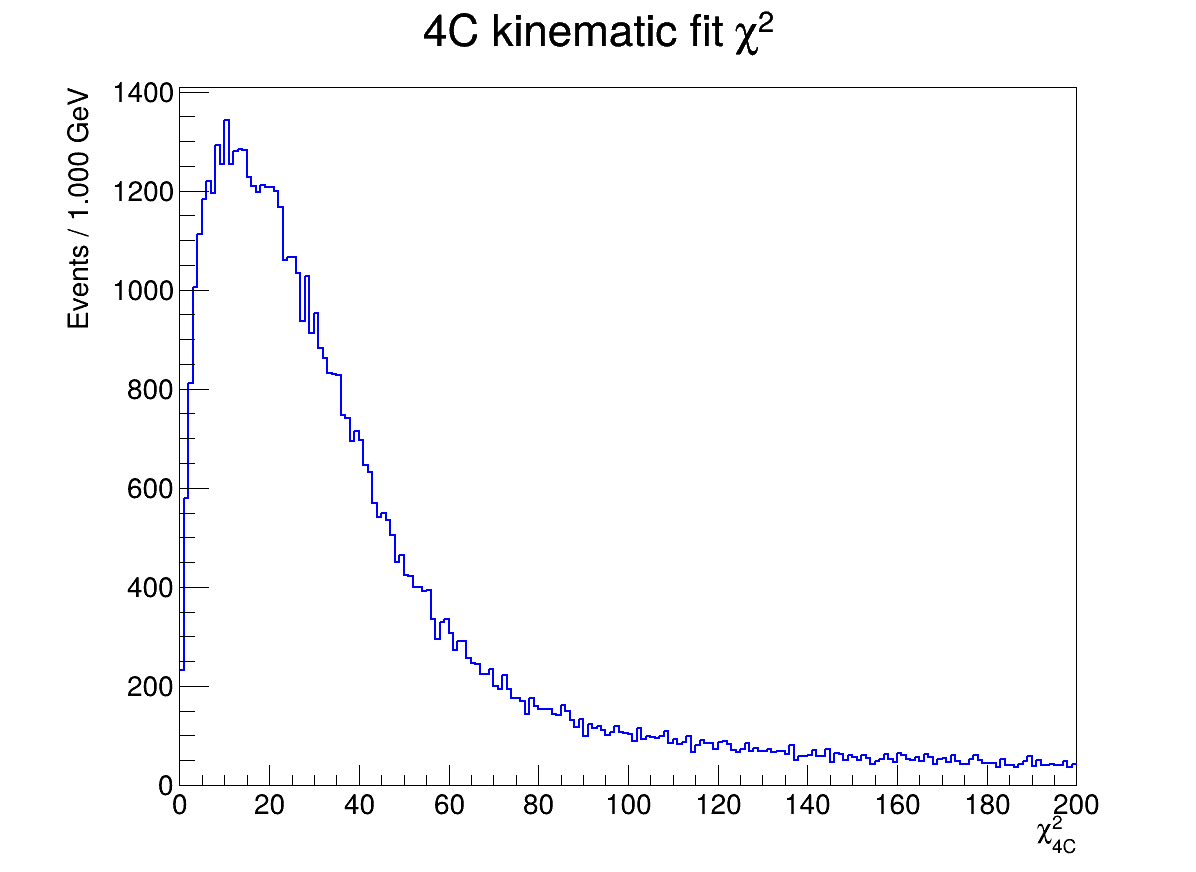
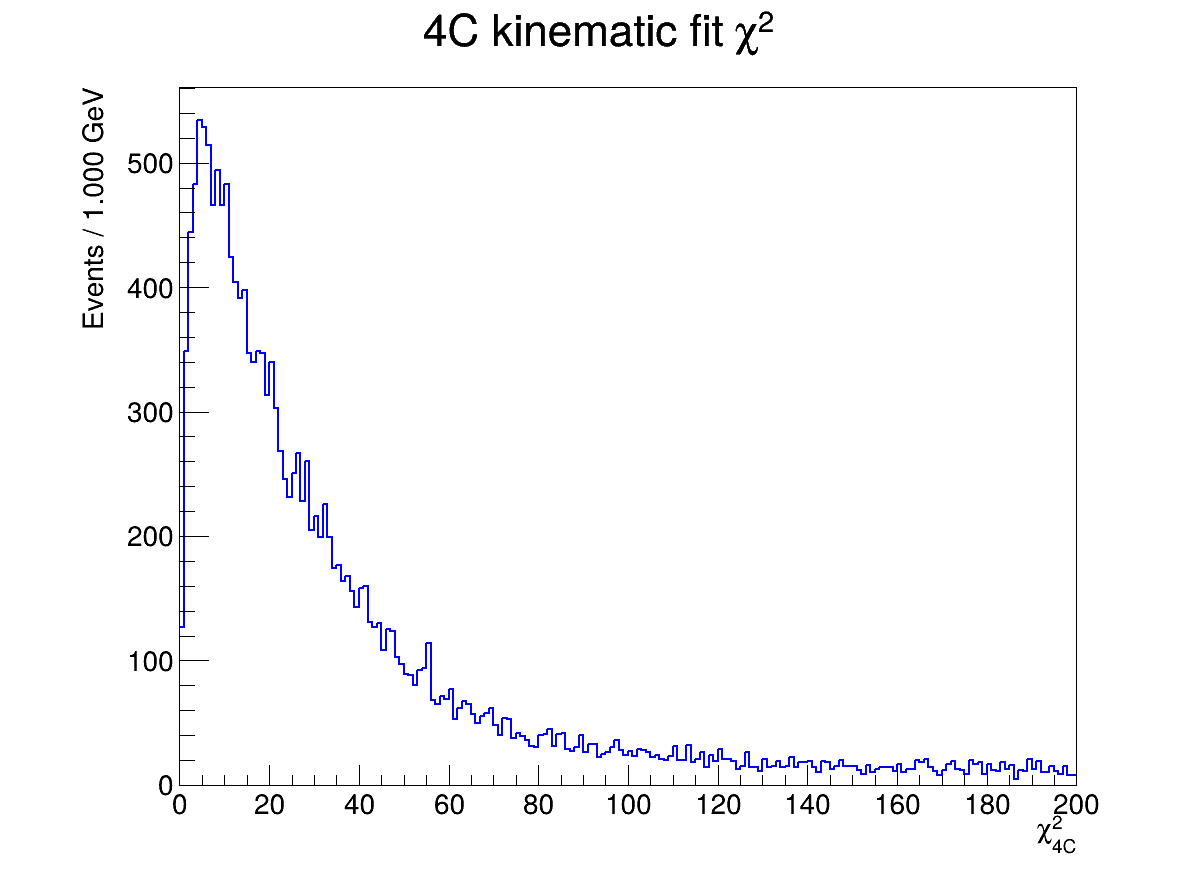
4.4 and 4.5 done

diff --git a/part2_KinFit/ZcAnalysis.C b/part2_KinFit/ZcAnalysis.C
@@ -61,6 +61,20 @@ TH1D* h1_mJpsi_mu = new TH1D(
     "J/#psi invariant mass (muon channel);M_{#mu^{+}#mu^{-}} [GeV];Events",
     100, 2.9, 3.2
 );
+
+// problem 4.4
+
+TH1D* h1_p_e = new TH1D(
+"h1_p_e",
+"Electron momentum;|p_{e}| [GeV];Events",
+200,0,3
+);
+
+TH1D* h1_p_mu = new TH1D(
+"h1_p_mu",
+"Muon momentum;|p_{#mu}| [GeV];Events",
+200,0,3
+);
 // problem 3.3
 TH1D* h1_mJpsi_recoil = new TH1D(
     "h1_mJpsi_recoil",
@@ -104,7 +118,11 @@ TH1D* h1_mJpsi_pipi_before = new TH1D(
     "Invariant mass of J/#psi #pi^{+}#pi^{-};M_{J/#psi#pi#pi} [GeV];Events",
     200, 3.0, 4.5
 );
-
+TH1D* h1_mJpsi_pipi_afterBhabha = new TH1D(
+    "h1_mJpsi_pipi_afterBhabha",
+    "Invariant mass after Bhabha cut;M_{J/#psi#pi#pi} [GeV];Events",
+    200,3.0,4.5
+);
 TH1D* h1_Emiss_before = new TH1D(
     "h1_Emiss_before",
     "Missing energy;E_{miss} [GeV];Events",
@@ -116,6 +134,37 @@ TH1D* h1_chi2_4C = new TH1D(
     "4C kinematic fit #chi^{2};#chi^{2}_{4C};Events",
     200,0,200
 );
+// problem 4.5
+TH1D* h_cos_ee = new TH1D(
+"cos_ee",
+"cos(#theta) between e^{+}e^{-};cos(#theta);Events",
+100,-1,1
+);
+
+TH1D* h_cos_epi_minus = new TH1D(
+"cos_epi_minus",
+"cos(#theta) between e^{+}#pi^{-};cos(#theta);Events",
+100,-1,1
+);
+
+TH1D* h_cos_pie_minus = new TH1D(
+"cos_pie_minus",
+"cos(#theta) between #pi^{+}e^{-};cos(#theta);Events",
+100,-1,1
+);
+
+TH1D* h_cos_pipi = new TH1D(
+"cos_pipi",
+"cos(#theta) between #pi^{+}#pi^{-};cos(#theta);Events",
+100,-1,1
+);
+// problem 4.5
+TH1D* h1_mJpsi_pipi_afterConversion = new TH1D(
+"h1_mJpsi_pipi_afterConversion",
+"Invariant mass after conversion cut;M_{J/#psi#pi#pi} [GeV];Events",
+200,3.0,4.5
+);
+
 //Problem 2.4
 double m_jpsi = 3.0969;  // Gev
 double m_pi = 0.13957;   // GeV
@@ -180,6 +229,17 @@ dblKinFit4CMomentaPz[3],
 dblKinFit4CMomentaE[3]
 );
 
+// problem 4.4
+double p_lp = lep_plus.P();
+double p_lm = lep_minus.P();
+
+// problem 4.5 photon conversion study (angular distributions)
+
+double cos_ee = CosTheta(lep_plus, lep_minus);
+double cos_epi_minus = CosTheta(lep_plus, pi_minus);
+double cos_pie_minus = CosTheta(pi_plus, lep_minus);
+double cos_pipi = CosTheta(pi_plus, pi_minus);
+
         //=============================================================================
         // Your selection for each event
         //=============================================================================
@@ -193,6 +253,41 @@ dblKinFit4CMomentaE[3]
 
 bool electronEvent = (intNumberElectrons == 2);
 bool muonEvent     = (intNumberMuons == 2);
+
+// problem 4.5
+// fill angular histograms
+h_cos_ee->Fill(cos_ee);
+h_cos_epi_minus->Fill(cos_epi_minus);
+h_cos_pie_minus->Fill(cos_pie_minus);
+h_cos_pipi->Fill(cos_pipi);
+
+// reconstruct J/psi and total system BEFORE Bhabha cut
+P4E Jpsi_temp  = lep_plus + lep_minus;
+P4E pions_temp = pi_plus + pi_minus;
+P4E total_temp = Jpsi_temp + pions_temp;
+
+// fill invariant mass BEFORE Bhabha cut
+h1_mJpsi_pipi_before->Fill(total_temp.M());
+// problem 4.4
+if (electronEvent)
+{
+    h1_p_e->Fill(p_lp);
+    h1_p_e->Fill(p_lm);
+}
+
+if (muonEvent)
+{
+    h1_p_mu->Fill(p_lp);
+    h1_p_mu->Fill(p_lm);
+}
+// ---------------- Bhabha background rejection ----------------
+if (electronEvent)
+{
+    if (p_lp > 2.0 || p_lm > 2.0)
+        continue;
+}
+// invariant mass after bhabha cut
+h1_mJpsi_pipi_afterBhabha->Fill(total_temp.M());
 // problem 3.3
 // reconstruct J/psi from pion recoil
 
@@ -217,6 +312,13 @@ P4E Jpsi = lep_plus + lep_minus;
 // problem 4.2
 P4E pions = pi_plus + pi_minus;
 P4E total = Jpsi + pions;
+// problem 4.5
+// ---- photon conversion rejection ----
+if (cos_epi_minus > 0.95 || cos_pie_minus > 0.95 || cos_pipi > 0.95)
+    continue;
+
+// fill invariant mass after conversion cut
+h1_mJpsi_pipi_afterConversion->Fill(total.M());
 
 // missing energy
 double Emiss = pCMS.E() - total.E();
@@ -230,7 +332,6 @@ h1_Egamma_ISR->Fill(Egamma_ISR);
 
 
 // ---------------- BEFORE χ² CUT ----------------
-h1_mJpsi_pipi_before->Fill(total.M());
 h1_Emiss_before->Fill(Emiss);
 
 
@@ -516,7 +617,7 @@ h1_mJpsi_recoil->Fit(ffit_voigt,"R");
 
     h1_mJpsi_pipi->Draw();
 
-    canvas->SaveAs(savePath + "m_Jpsi_pipi_afterCut.png");
+    canvas->SaveAs(savePath + "m_Jpsi_pipi_after_chi^2_Cut.png");
 }
 
 {
@@ -575,6 +676,72 @@ h1_mJpsi_recoil->Fit(ffit_voigt,"R");
     h1_chi2_4C->Draw();
 
     canvas->SaveAs(savePath + "chi2_4C_distribution.png");
+}
+// problem 4.4
+{
+TCanvas* canvas = new TCanvas();
+double binWidth = h1_p_e->GetBinWidth(1);
+h1_p_e->GetYaxis()->SetTitle(Form("Events / %.3f GeV", binWidth));
+h1_p_e->Draw();
+canvas->SaveAs(savePath + "electron_momentum.png");
+}
+
+{
+TCanvas* canvas = new TCanvas();
+double binWidth = h1_p_mu->GetBinWidth(1);
+h1_p_mu->GetYaxis()->SetTitle(Form("Events / %.3f GeV", binWidth));
+h1_p_mu->Draw();
+canvas->SaveAs(savePath + "muon_momentum.png");
+}
+{
+    TCanvas* canvas = new TCanvas();
+    double binWidth = h1_mJpsi_pipi_afterBhabha->GetBinWidth(1);
+
+    h1_mJpsi_pipi_afterBhabha->GetYaxis()->SetTitle(
+        Form("Events / %.3f GeV", binWidth)
+    );
+
+    h1_mJpsi_pipi_afterBhabha->Draw();
+
+    canvas->SaveAs(savePath + "m_Jpsi_pipi_afterBhabhaCut.png");
+}
+// problem 4.5
+// photon conversion angular distributions
+
+{
+TCanvas* canvas = new TCanvas();
+h_cos_ee->Draw();
+canvas->SaveAs(savePath + "cosTheta_ee.png");
+}
+
+{
+TCanvas* canvas = new TCanvas();
+h_cos_epi_minus->Draw();
+canvas->SaveAs(savePath + "cosTheta_e_pi_minus.png");
+}
+
+{
+TCanvas* canvas = new TCanvas();
+h_cos_pie_minus->Draw();
+canvas->SaveAs(savePath + "cosTheta_pi_plus_e_minus.png");
+}
+
+{
+TCanvas* canvas = new TCanvas();
+h_cos_pipi->Draw();
+canvas->SaveAs(savePath + "cosTheta_pipi.png");
+}
+{
+TCanvas* canvas = new TCanvas();
+double binWidth = h1_mJpsi_pipi_afterConversion->GetBinWidth(1);
+
+h1_mJpsi_pipi_afterConversion->GetYaxis()->SetTitle(
+Form("Events / %.3f GeV", binWidth)
+);
+
+h1_mJpsi_pipi_afterConversion->Draw();
+
+canvas->SaveAs(savePath + "m_Jpsi_pipi_afterConversionCut.png");
 }
       
 
